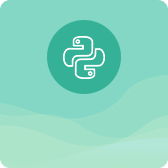
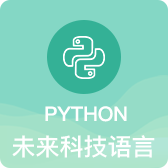
index completely done

Changed region(s): [[0.0595, 0.8036, 0.9226, 0.9524], [0.2679, 0.625, 0.7738, 0.744]]

diff --git a/components/lesson-show2/lessonShow2.js b/components/lesson-show2/lessonShow2.js
@@ -15,19 +15,19 @@ Component({
         name: "HTML5",
         info: [{
           lessonname: "HTML网页设计大解析",
-          lessonicon: "",
+          lessonicon: "/static/images/HTMLimage1.png",
           lessonteacher: "陈林"
         }, {
           lessonname: "CCS+DIV基础入门讲解",
-          lessonicon: "",
+            lessonicon: "/static/images/HTMLimage2.png",
           lessonteacher: "谭薇"
         }, {
           lessonname: "Banner设计规范原则",
-          lessonicon: "",
+            lessonicon: "/static/images/HTMLimage3.png",
           lessonteacher: "许冬"
         }, {
           lessonname: "电商网页设计案例分析",
-          lessonicon: "",
+            lessonicon: "/static/images/HTMLimage4.png",
           lessonteacher: "娜娜"
         }]
 
@@ -35,19 +35,19 @@ Component({
         name: "JAVA",
         info: [{
           lessonname: "JAVA+大数据开发",
-          lessonicon: "",
+          lessonicon: "/static/images/JAVAimage1.png",
           lessonteacher: "文强"
         }, {
           lessonname: "JAVA从入门到放弃",
-          lessonicon: "",
+            lessonicon: "/static/images/JAVAimage2.png",
           lessonteacher: "文强"
         }, {
           lessonname: "JAVA语言实用开发技巧",
-          lessonicon: "",
+            lessonicon: "/static/images/JAVAimage3.png",
           lessonteacher: "二狗"
         }, {
           lessonname: "JAVA经典案例解析",
-          lessonicon: "",
+            lessonicon: "/static/images/JAVAimage4.png",
           lessonteacher: "大象"
         }]
       },
@@ -55,19 +55,19 @@ Component({
         name: "UI",
         info: [{
           lessonname: "图形设计元素",
-          lessonicon: "",
+          lessonicon: "/static/images/UIimage1.png",
           lessonteacher: "海燕"
         }, {
           lessonname: "平面构成实战解析",
-          lessonicon: "",
+            lessonicon: "/static/images/UIimage2.png",
           lessonteacher: "燕南"
         }, {
           lessonname: "UI界面设计规范",
-          lessonicon: "",
+            lessonicon: "/static/images/UIimage3.png",
           lessonteacher: "王娜娜"
         }, {
           lessonname: "交互设计讲解",
-          lessonicon: "",
+            lessonicon: "/static/images/UIimage4.png",
           lessonteacher: "水许"
         }]
       }

diff --git a/pages/index/index.js b/pages/index/index.js
@@ -6,23 +6,41 @@ Page({
   data: {
     recommenditions: [{
       name: "HTML",
-      dec: "HTML5全栈进阶视频教程",
-      teacher: "陈林",
-      studied: 25858,
-      icon: "../../static/images/lessonHTML.png",
+      lessonname: "HTML5全栈进阶视频教程",
+      lessonteacher: "陈林",
+      lessonstudied: 25858,
+      lessonicon: "../../static/images/lessonHTML.png",
       price: 1500,
       videoUrl: "/static/video/Ka98k.mp4",
       videoCode: "Ka98k"
     }, {
       name: "JAVA",
-      dec: "HTML5全栈进阶视频教程",
-      teacher: "陈林",
-      studied: 25858,
-      icon: "../../static/images/lessonHTML.png",
+      lessonname: "JAVA高级视频课程",
+      lessonteacher: "许文强",
+      lessonstudied: 25858,
+      lessonicon: "../../static/images/lessonJAVA.png",
       price: 1500,
       videoUrl: "/static/video/M24.mp4",
       videoCode: "M24"
-    }],
+      }, {
+        name: "UI",
+        lessonname: "UI/UE从入门到精通",
+        lessonteacher: "海燕",
+        lessonstudied: 48503,
+        lessonicon: "../../static/images/lessonUI.png",
+        price: 1500,
+        videoUrl: "/static/video/M24.mp4",
+        videoCode: "M24"
+      }, {
+        name: "PYTHON",
+        lessonname: "PYTHON实战经验大解析",
+        lessonteacher: "云兵",
+        lessonstudied: 12325,
+        lessonicon: "../../static/images/lessonPYTHON.png",
+        price: 1500,
+        videoUrl: "/static/video/M24.mp4",
+        videoCode: "M24"
+      }],
   },
   onLaunch: function() {
     let _this = this;
